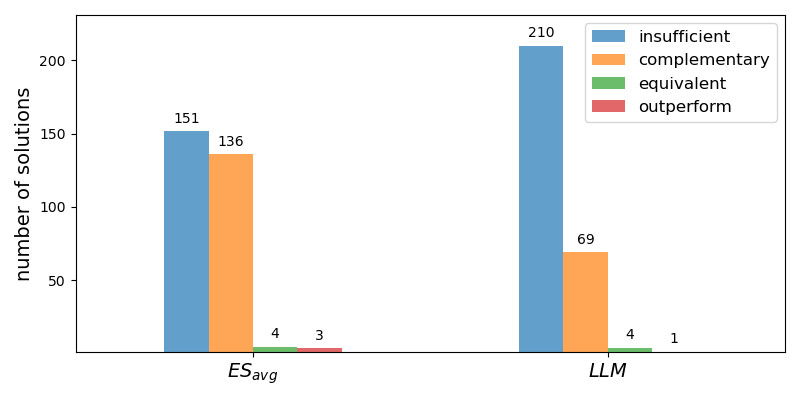
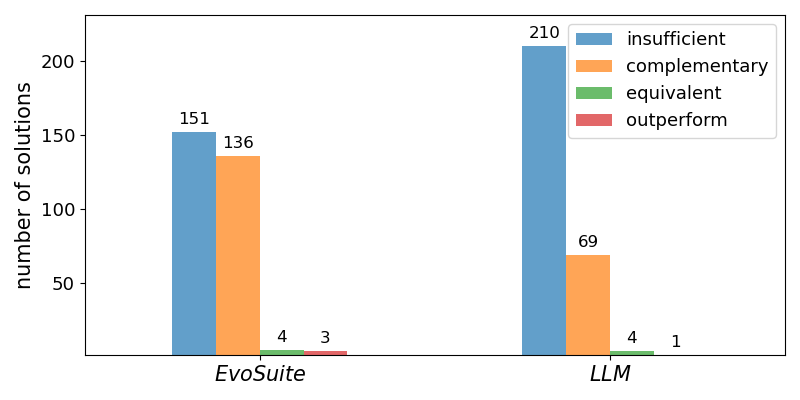
update RQ1 figure font size

diff --git a/nero/evaluation/test_gen_results.py b/nero/evaluation/test_gen_results.py
@@ -188,20 +188,21 @@ class TestGen:
             "equivalent": [data_es_avg[2], data_llm[2]],
             "outperform": [data_es_avg[3], data_llm[3]]
         },
-            index=["$ES_{avg}$", "$LLM$"])
+            index=["$EvoSuite$", "$LLM$"])
 
         ax = data.plot(kind="bar", figsize=(8, 4), rot=0, alpha=0.7)
         y_max = max(data.max()) * 1.1  # 20% space above the tallest bar
         ax.set_ylim(1, y_max)
 
-        plt.ylabel("number of solutions", fontsize=14)
-        plt.xticks(fontsize=14)
-        plt.legend(fontsize=12)
+        plt.ylabel("number of solutions", fontsize=15)
+        plt.xticks(fontsize=15)
+        plt.yticks(fontsize=13)
+        plt.legend(fontsize=13)
         for p in ax.patches:
             ax.annotate(f'{int(p.get_height())}',
                         (p.get_x() + p.get_width() / 2., p.get_height()),
                         ha='center', va='center', xytext=(0, 9),
-                        textcoords='offset points', fontsize=10)
+                        textcoords='offset points', fontsize=12)
         plt.tight_layout()
         plt.show()
 
